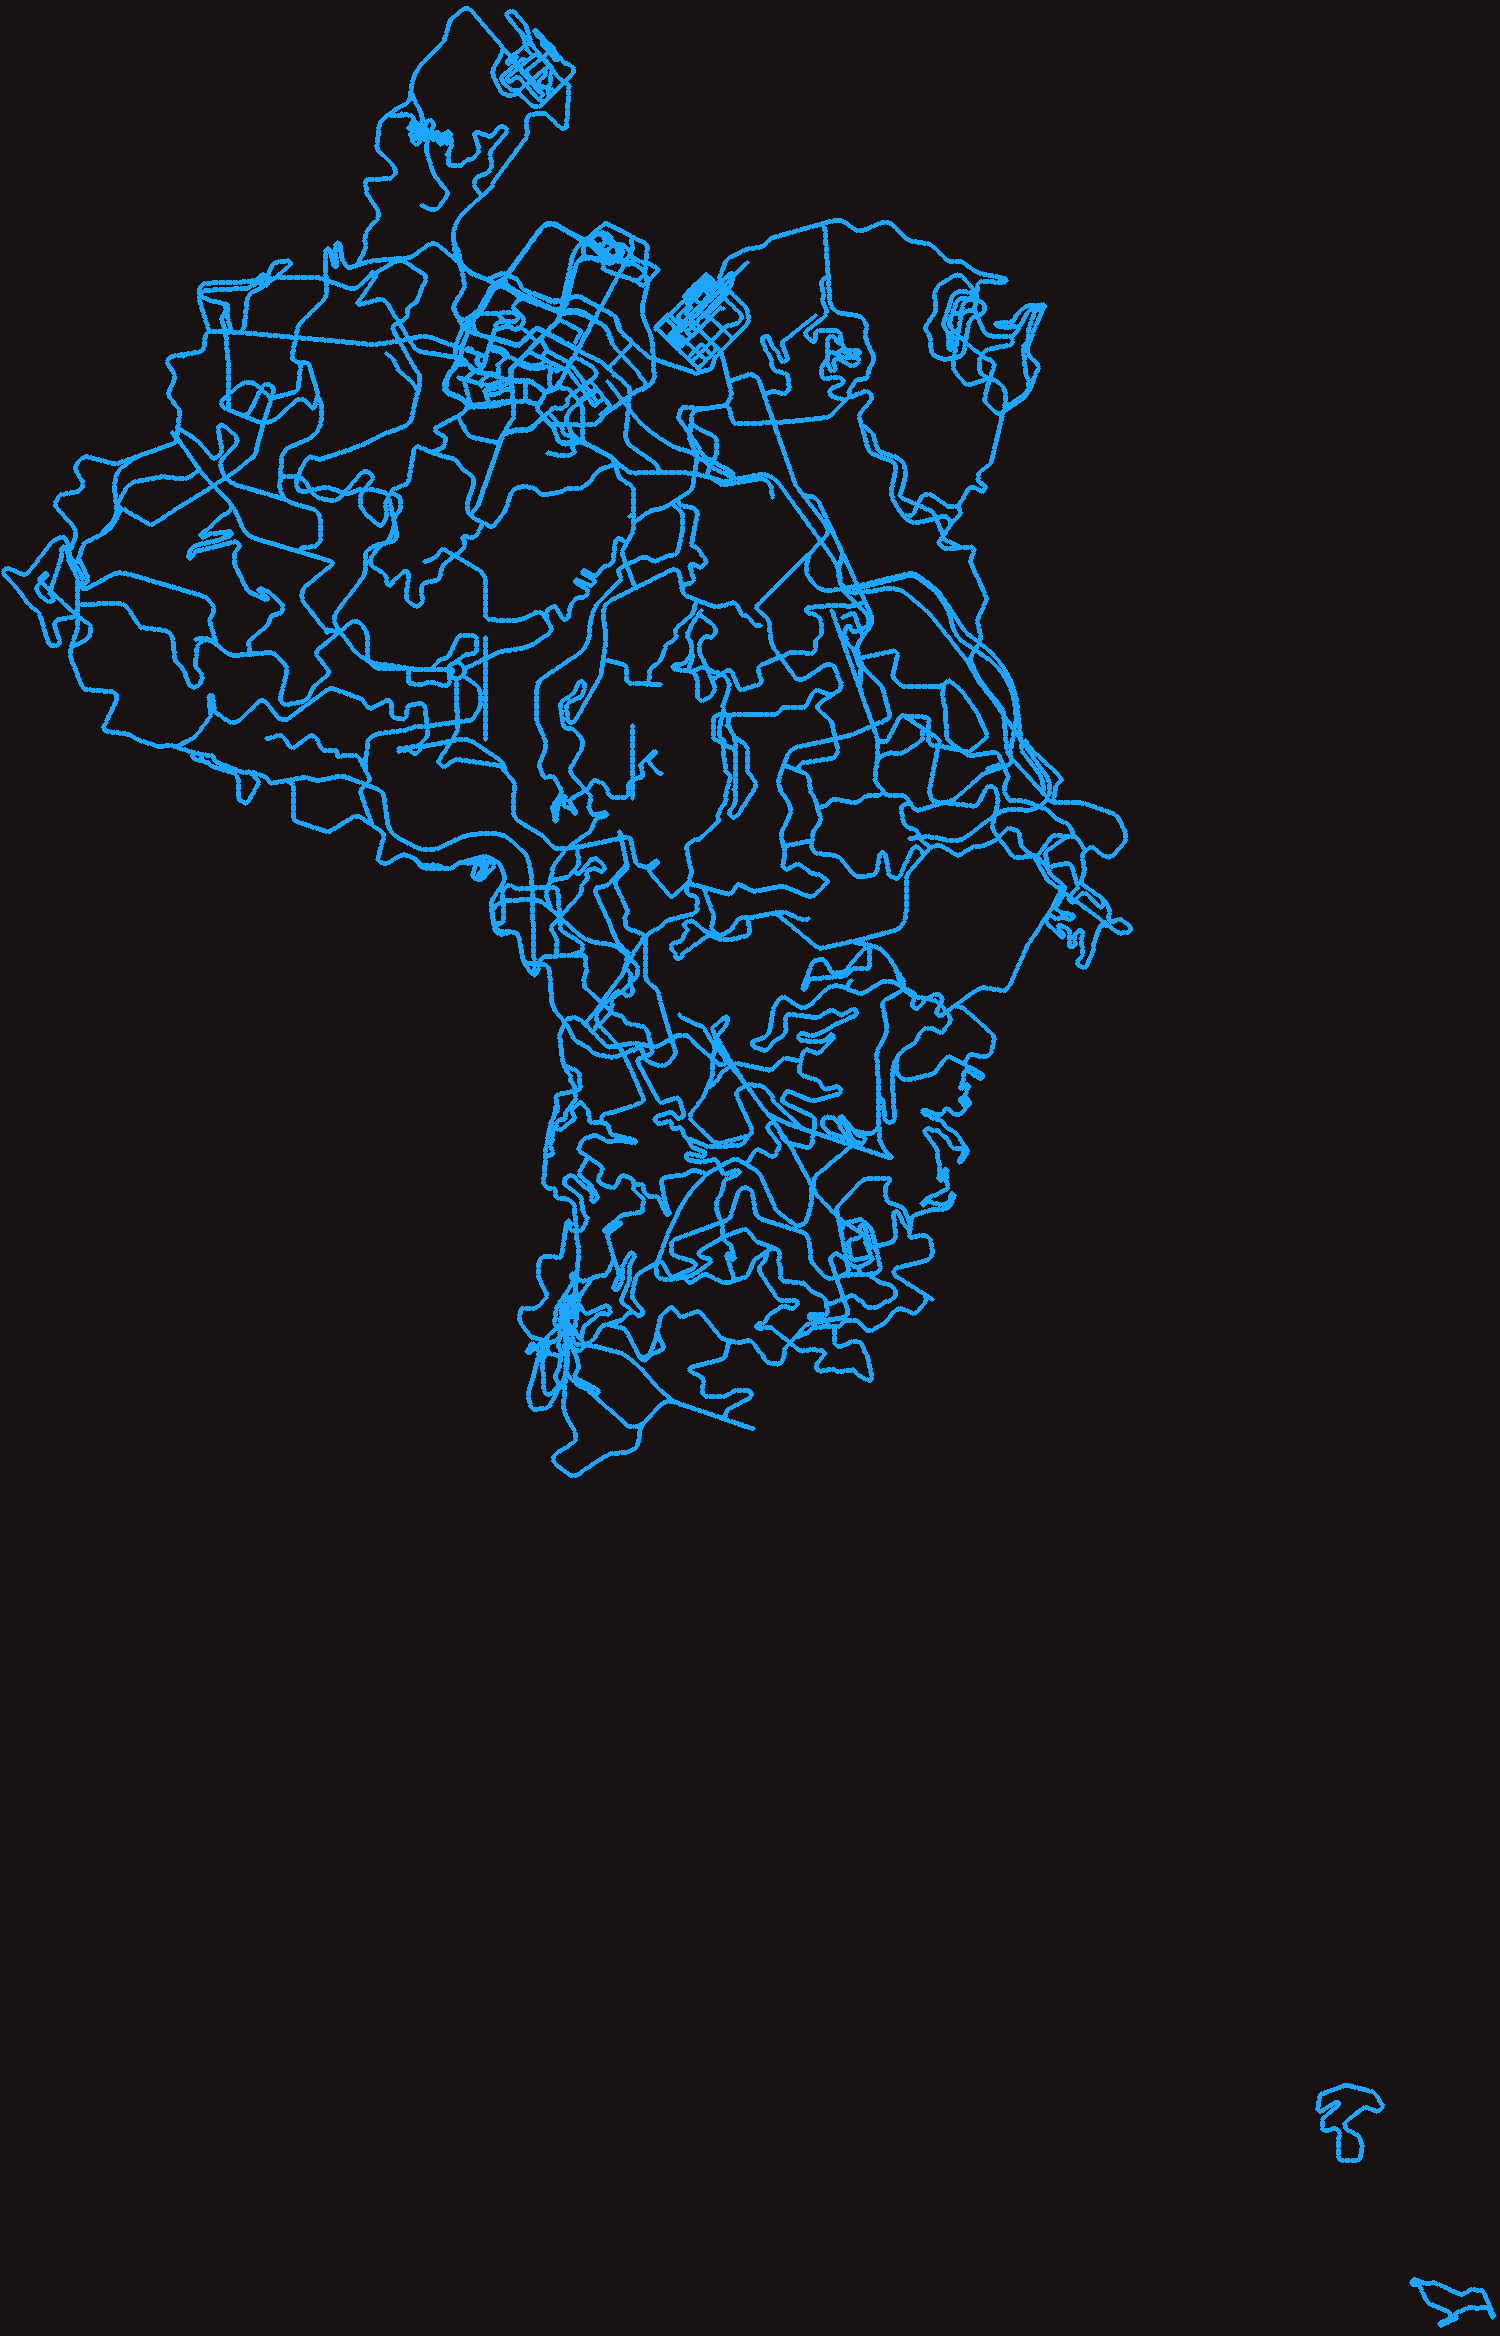
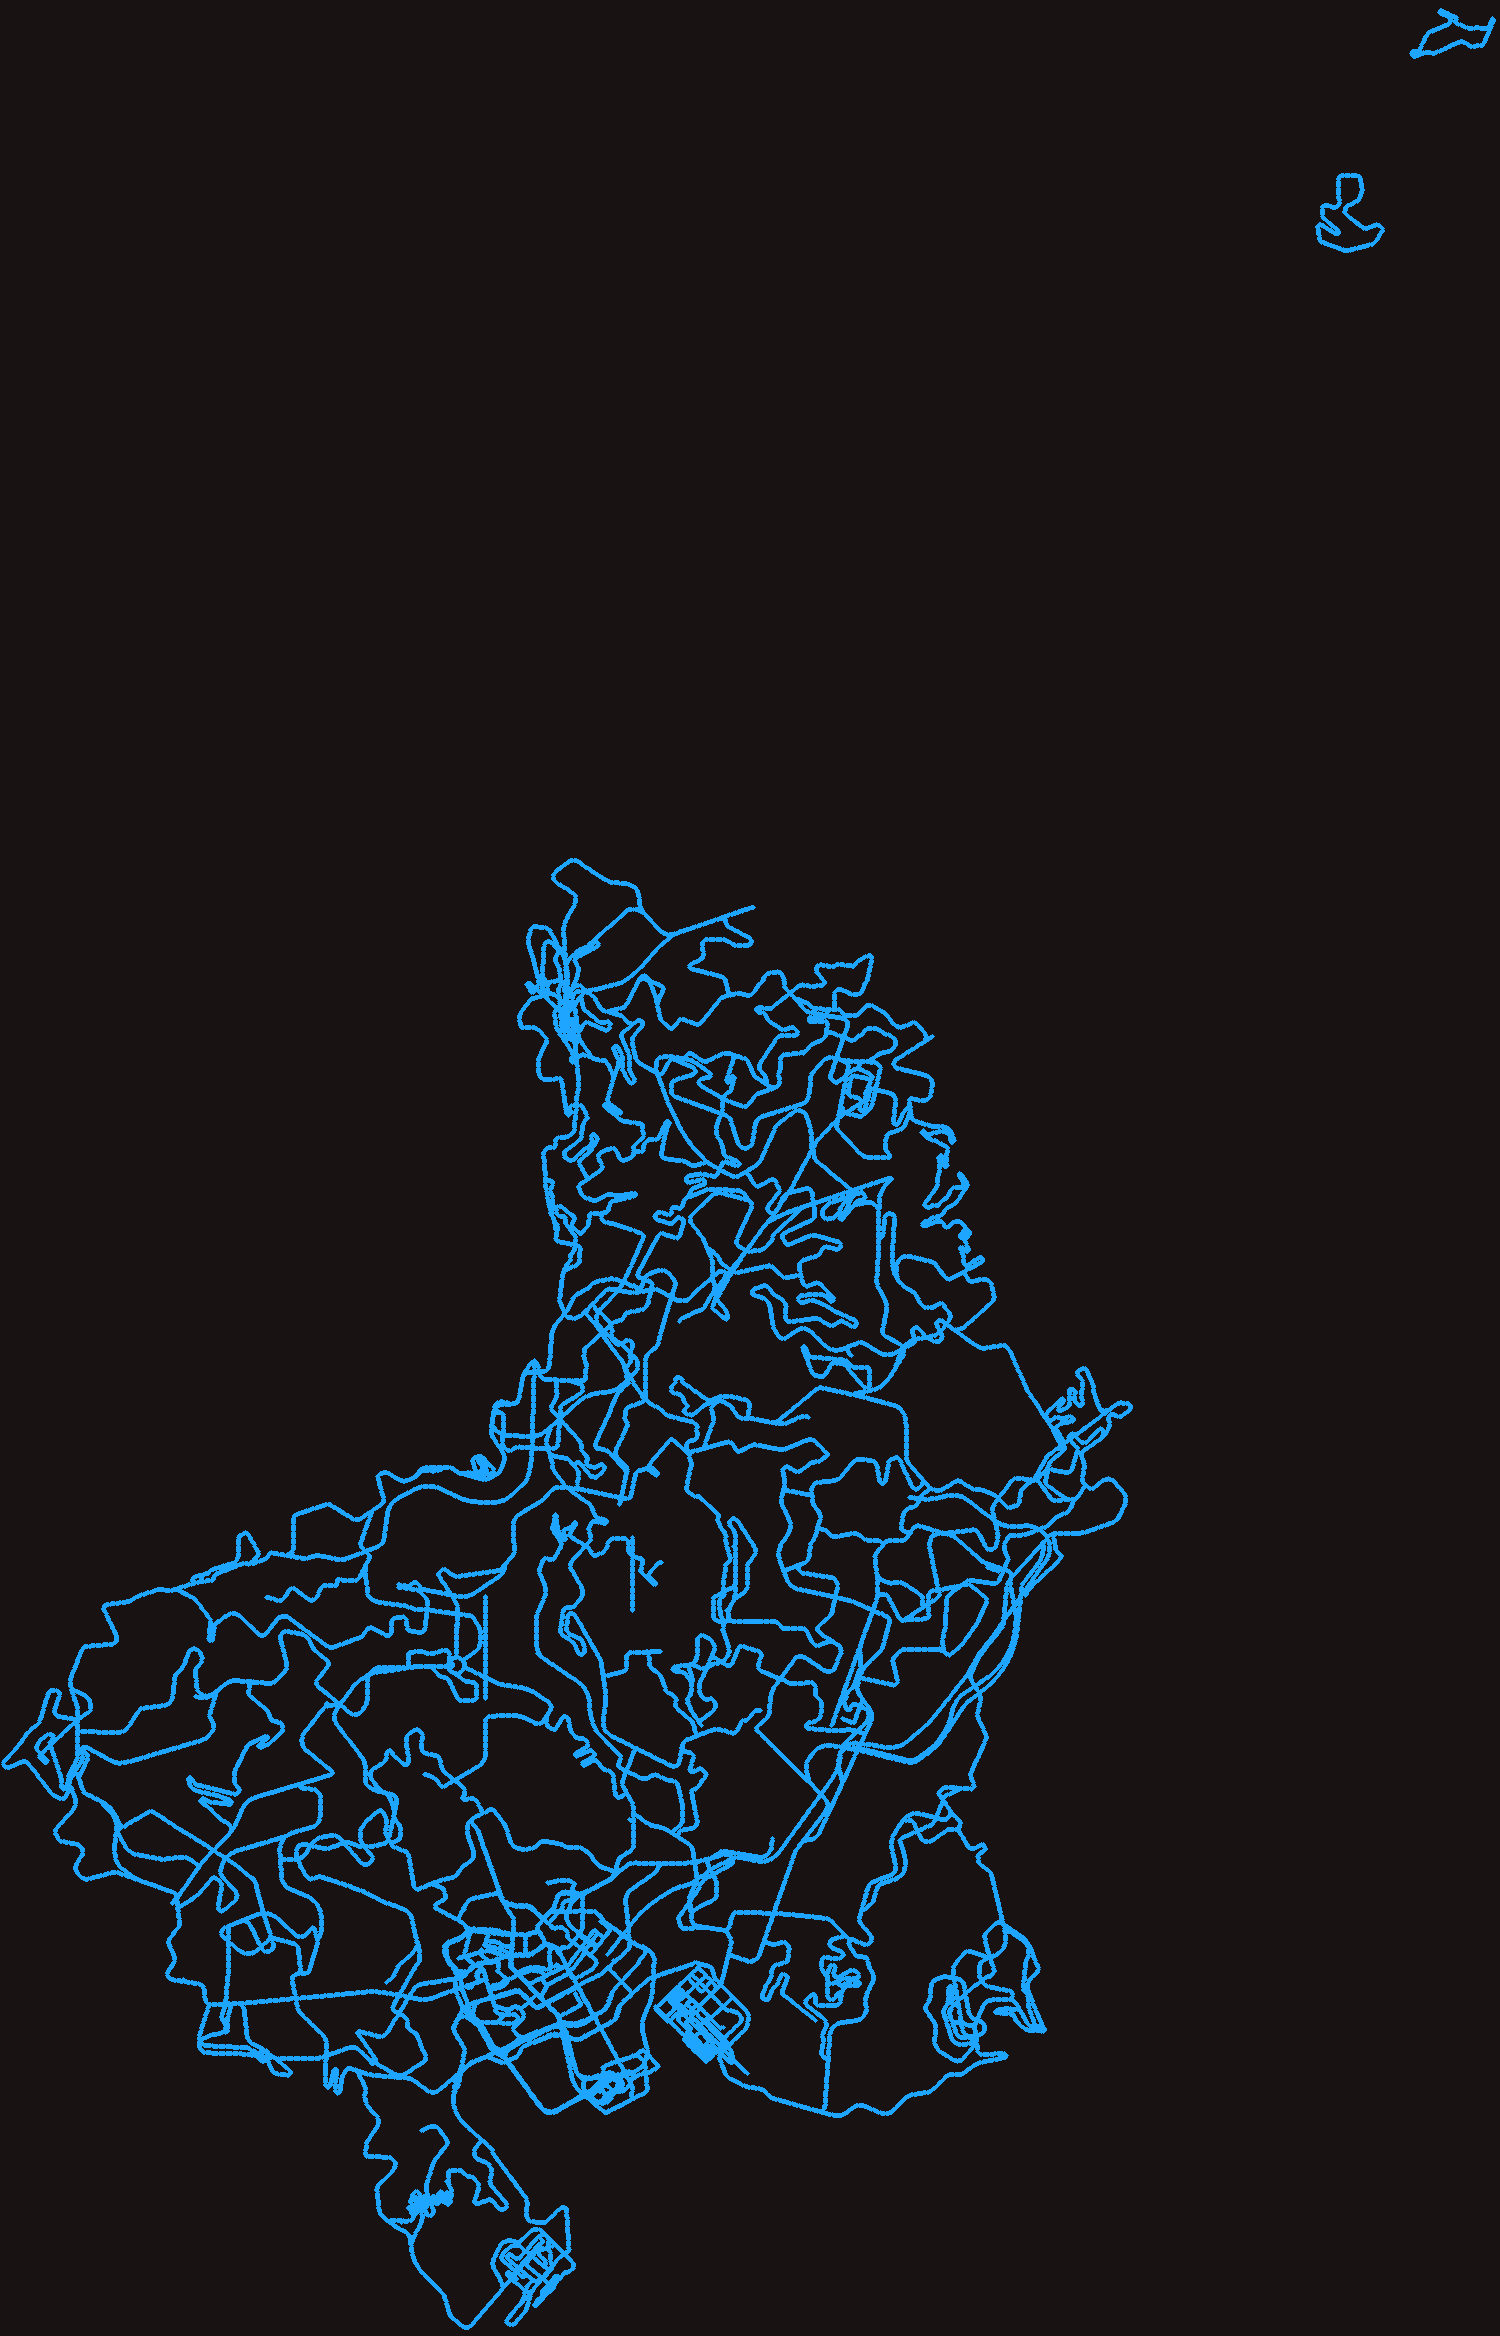
fix(map): correct orientation and eliminate 48K-point render lag
Orientation fix
---------------
world_to_ref() was mapping Z incorrectly: larger Z (south/bottom of map)
was appearing at the top of road_map.png. Fixed by flipping:
  ref_y = (WORLD_Z_MAX - world_z) / range * MAP_HEIGHT
road_map.png regenerated with corrected orientation.

Performance fix
---------------
MapView.paintEvent was rendering all 48K UNKNOWN scan points on every
frame — causing 10 s load time and laggy zoom. Fix: skip UNKNOWN points
entirely. Only DISCOVERED (green) and UNDISCOVERED (red) points are
drawn. At startup: 0 dots rendered → instant. After scanning: only
the scanned results appear (the undiscovered roads we actually care about).

diff --git a/app/utils/map_coords.py b/app/utils/map_coords.py
@@ -18,14 +18,18 @@ MAP_HEIGHT: int = 2336  # keeps the correct world aspect ratio
 
 
 def world_to_ref(world_x: float, world_z: float) -> tuple[int, int]:
-    """Convert game-world (X, Z) to road_map.png pixel (ref_x, ref_y)."""
+    """Convert game-world (X, Z) to road_map.png pixel (ref_x, ref_y).
+
+    Z is flipped: larger Z sits at the top of the image (row 0), matching
+    the orientation confirmed by visual inspection of the owt_preview.png.
+    """
     ref_x = int((world_x - WORLD_X_MIN) / (WORLD_X_MAX - WORLD_X_MIN) * MAP_WIDTH)
-    ref_y = int((world_z - WORLD_Z_MIN) / (WORLD_Z_MAX - WORLD_Z_MIN) * MAP_HEIGHT)
+    ref_y = int((WORLD_Z_MAX - world_z) / (WORLD_Z_MAX - WORLD_Z_MIN) * MAP_HEIGHT)
     return ref_x, ref_y
 
 
 def ref_to_world(ref_x: int, ref_y: int) -> tuple[float, float]:
     """Convert road_map.png pixel (ref_x, ref_y) to game-world (X, Z)."""
     world_x = ref_x / MAP_WIDTH * (WORLD_X_MAX - WORLD_X_MIN) + WORLD_X_MIN
-    world_z = ref_y / MAP_HEIGHT * (WORLD_Z_MAX - WORLD_Z_MIN) + WORLD_Z_MIN
+    world_z = WORLD_Z_MAX - ref_y / MAP_HEIGHT * (WORLD_Z_MAX - WORLD_Z_MIN)
     return world_x, world_z

diff --git a/app/ui/map_view.py b/app/ui/map_view.py
@@ -202,7 +202,7 @@ class MapView(QWidget):
             painter.drawText(
                 self.rect(),
                 Qt.AlignmentFlag.AlignCenter,
-                "Load a reference map to begin",
+                "Loading road map...",
             )
             return
 
@@ -252,7 +252,7 @@ class MapView(QWidget):
             elif pt.state == DiscoveryState.UNDISCOVERED:
                 color = _UNDISCOVERED_COLOR
             else:
-                color = _ROAD_TYPE_COLOR[pt.road_type]
+                continue  # UNKNOWN points are not rendered until scanned
             w_pt = self._img_to_widget(QPointF(pt.ref_x, pt.ref_y))
             key = color.rgba()
             entry = color_paths.get(key)